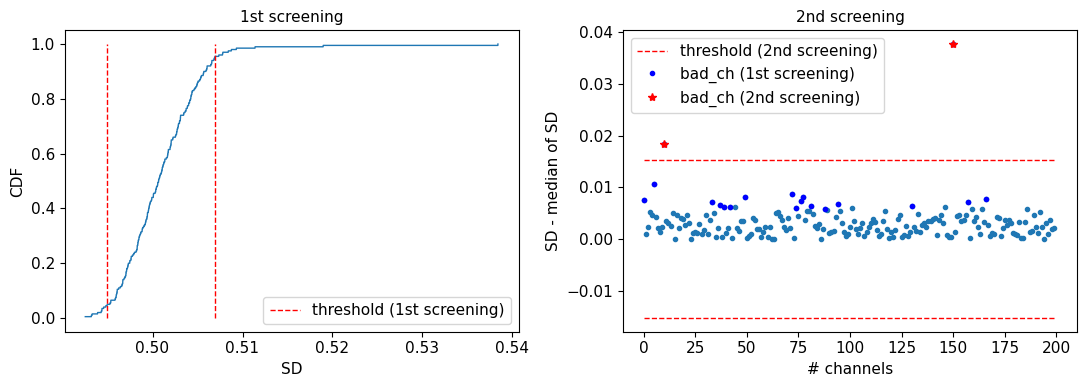
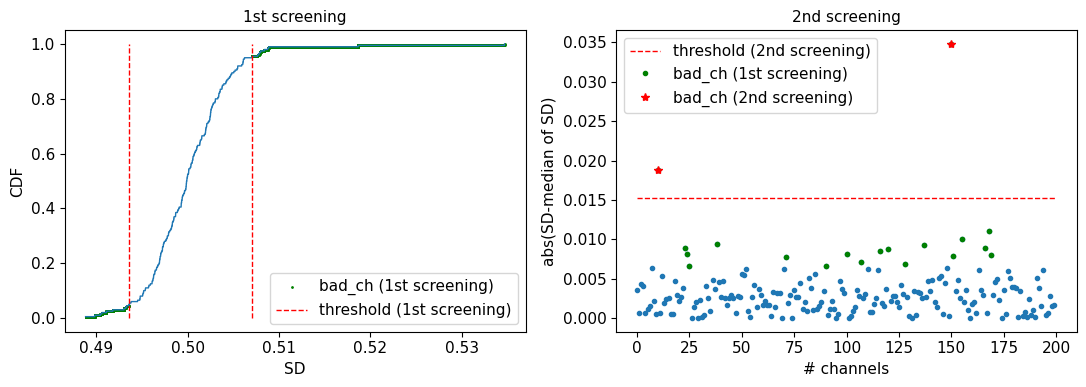
Fixed

diff --git a/aopy/preproc/quality.py b/aopy/preproc/quality.py
@@ -79,21 +79,22 @@ def detect_bad_ch_outliers(data, nbins=10000, thr=0.05, numsd=5.0, debug=False, 
     thr2 = numsd*np.std(sd[~bad_ch1], ddof=1)
     sd_from_med = np.abs(sd - med_sd)
     inrange = sd_from_med <= thr2
-    bad_ch = bad_ch1 & ~inrange;
+    bad_ch = bad_ch1 & ~inrange
     
     if debug:
         fig,ax = plt.subplots(1,2,figsize=(11,4),tight_layout=True)
         ax[0].plot(bins[:-1],CDF)
+        ax[0].scatter(bins[np.where(CDF<thr)[0]],CDF[CDF<thr],c='g',s=1,label='bad_ch (1st screening)')
+        ax[0].scatter(bins[np.where(CDF>1-thr)[0]],CDF[CDF>1-thr],c='g',s=1)
         ax[0].plot([top,top],[0,1],'r--', label='threshold (1st screening)')
         ax[0].plot([bottom,bottom],[0,1],'r--')
         ax[0].set(xlabel='SD',ylabel='CDF',title='1st screening')
         ax[0].legend()
         ax[1].plot(sd_from_med,'.')
         ax[1].plot([0,nch],[thr2,thr2],'r--', label='threshold (2nd screening)')
-        ax[1].plot([0,nch],[-thr2,-thr2],'r--')
-        ax[1].plot(np.where(bad_ch1)[0], sd_from_med[bad_ch1], 'b.',label='bad_ch (1st screening)')
+        ax[1].plot(np.where(bad_ch1)[0], sd_from_med[bad_ch1], 'g.',label='bad_ch (1st screening)')
         ax[1].plot(np.where(bad_ch)[0], sd_from_med[bad_ch], 'r*', label='bad_ch (2nd screening)')
-        ax[1].set(ylabel='SD - median of SD',xlabel='# channels',title='2nd screening')
+        ax[1].set(ylabel='abs(SD-median of SD)',xlabel='# channels',title='2nd screening')
         ax[1].legend()
     
     if verbose:
